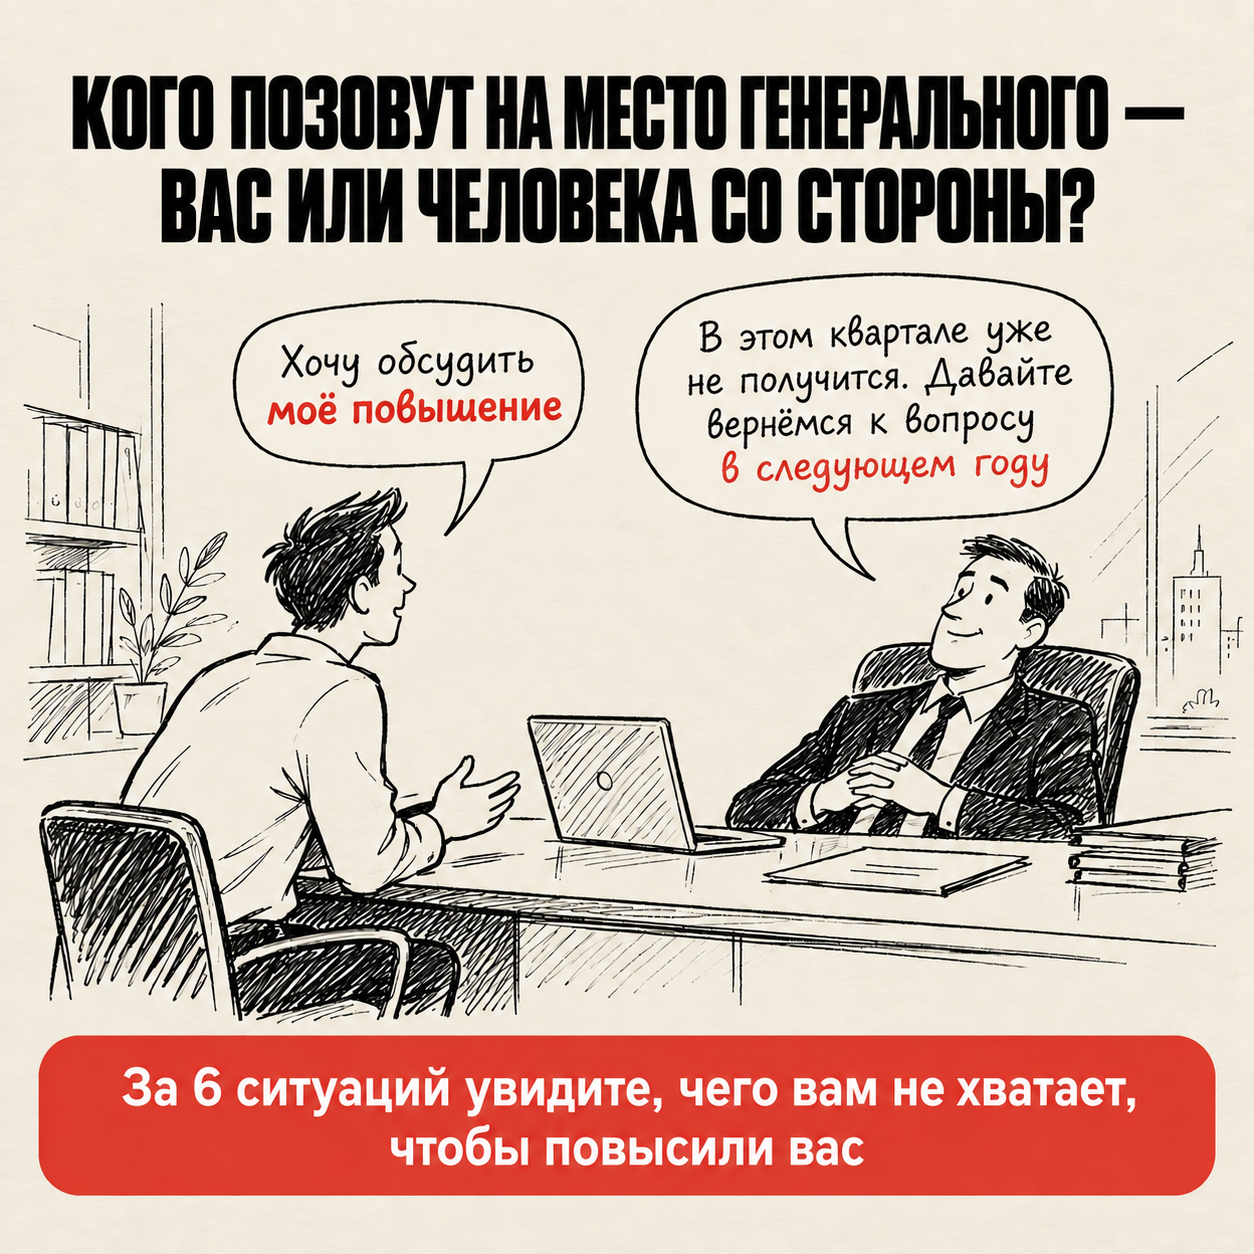
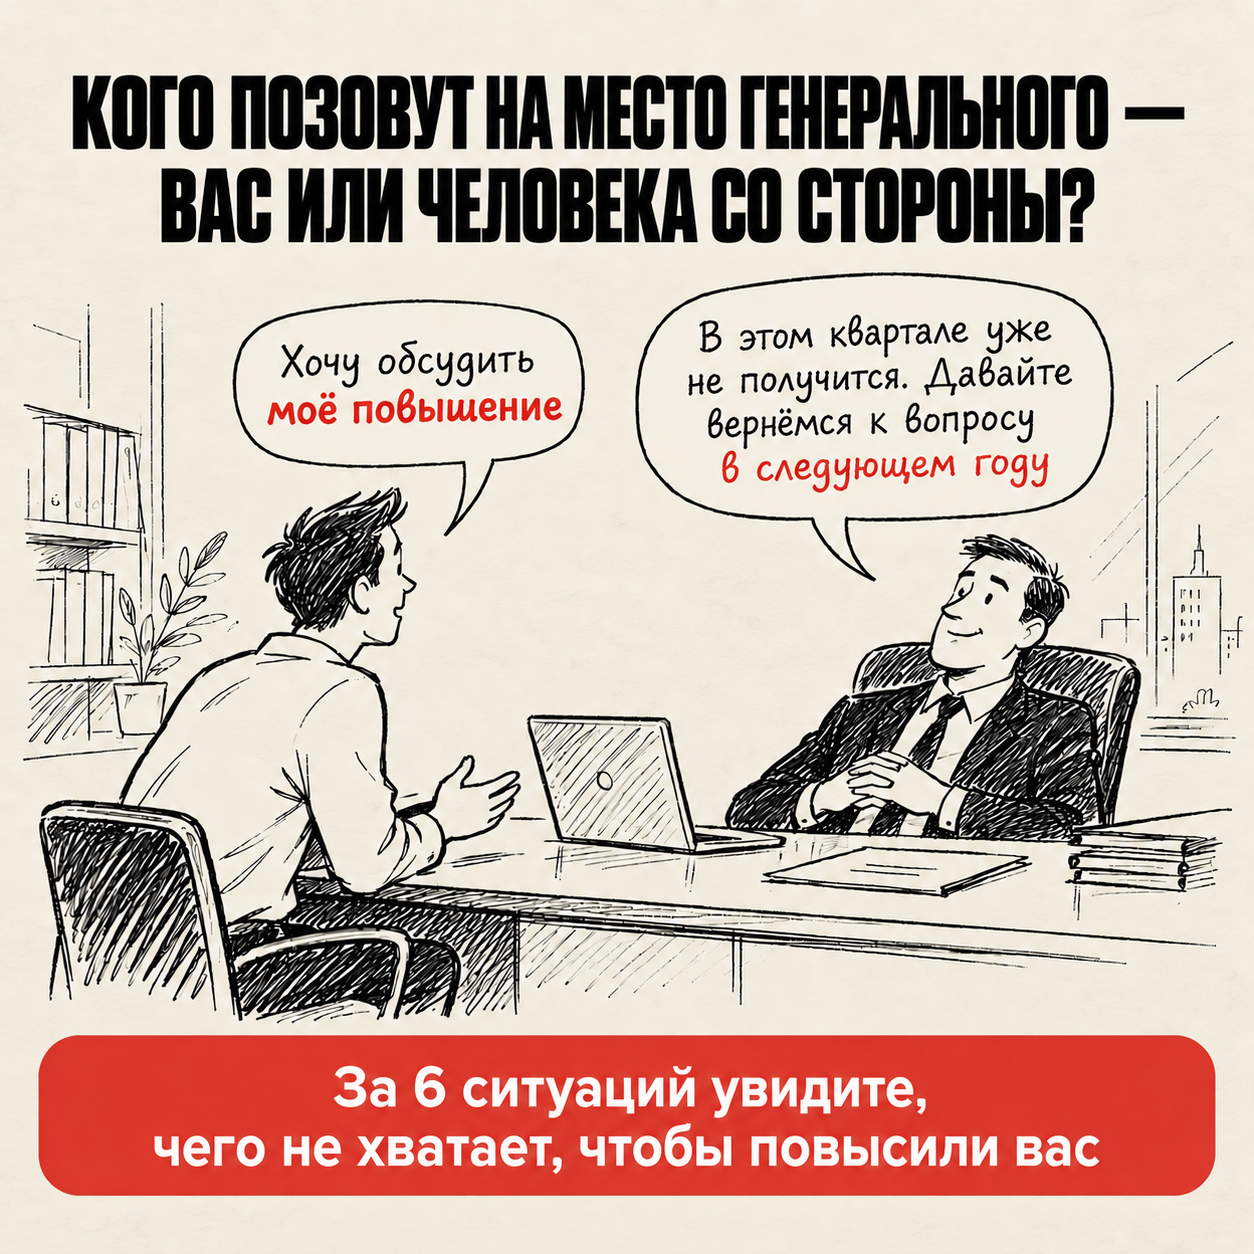
Крео: повышение в кризис

diff --git a/offers.html b/offers.html
@@ -102,7 +102,7 @@ mark{background:#f5d94e66;border-bottom:1px dashed #b39b00;padding:0 3px;color:i
 
 <h2 id="kviz">Квиз</h2>
 
-<div class="ofr">
+<div class="ofr" data-creo="creo/career-ladder.png?v=2e330361" data-ttl="Чего не хватает для повышения по карьерной лестнице?">
   <div class="n">01</div>
   <h3>Чего не хватает для повышения по карьерной лестнице?</h3>
   <p>Пройдите деловую игру из 6 ситуаций и получите разбор карьеры: чего вам не хватает до следующей позиции.</p>
@@ -126,7 +126,7 @@ mark{background:#f5d94e66;border-bottom:1px dashed #b39b00;padding:0 3px;color:i
   <p class="seg">Разговор наверх и финансы уровня первого лица.</p>
 </div>
 
-<div class="ofr" data-creo="creo/ceo-inside-or-outside.png?v=f2ae909b" data-ttl="Кого позовут на место генерального — вас или человека со стороны?">
+<div class="ofr" data-creo="creo/ceo-inside-or-outside.png?v=ff29a912" data-ttl="Кого позовут на место генерального — вас или человека со стороны?">
   <div class="n">04</div>
   <h3>Кого позовут на место генерального — вас или человека со стороны?</h3>
   <p>За 6 ситуаций увидите, чего вам не хватает, чтобы позвали вас: по компетенциям и по связям на рынке.</p>
@@ -150,7 +150,7 @@ mark{background:#f5d94e66;border-bottom:1px dashed #b39b00;padding:0 3px;color:i
   <p class="seg">Траектория «свой бизнес или партнёрство». Карта собирается под выбранную цель.</p>
 </div>
 
-<div class="ofr">
+<div class="ofr" data-creo="creo/crisis-promote.png?v=bf199876" data-ttl="Есть ли у вас навыки топ-менеджера, за которые повышают даже в кризис?">
   <div class="n">07</div>
   <h3>Есть ли у вас навыки топ-менеджера, за которые повышают даже в кризис?</h3>
   <p>За 6 вопросов разберём, что отличает тех, кого в кризис повышают, от тех, кого сокращают.</p>
